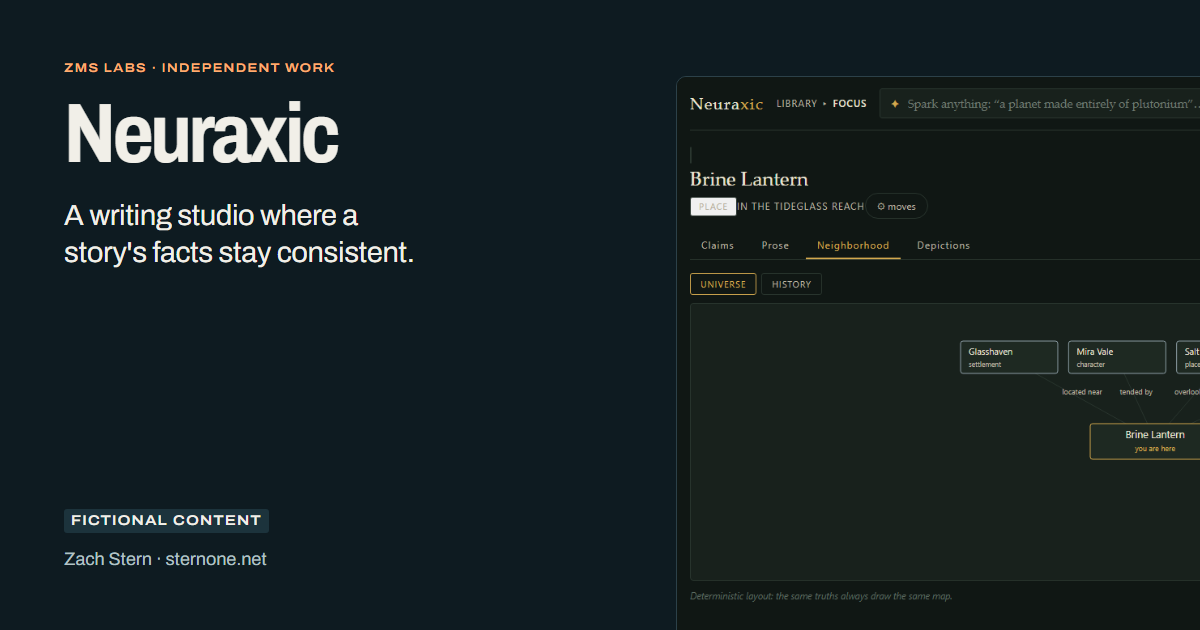
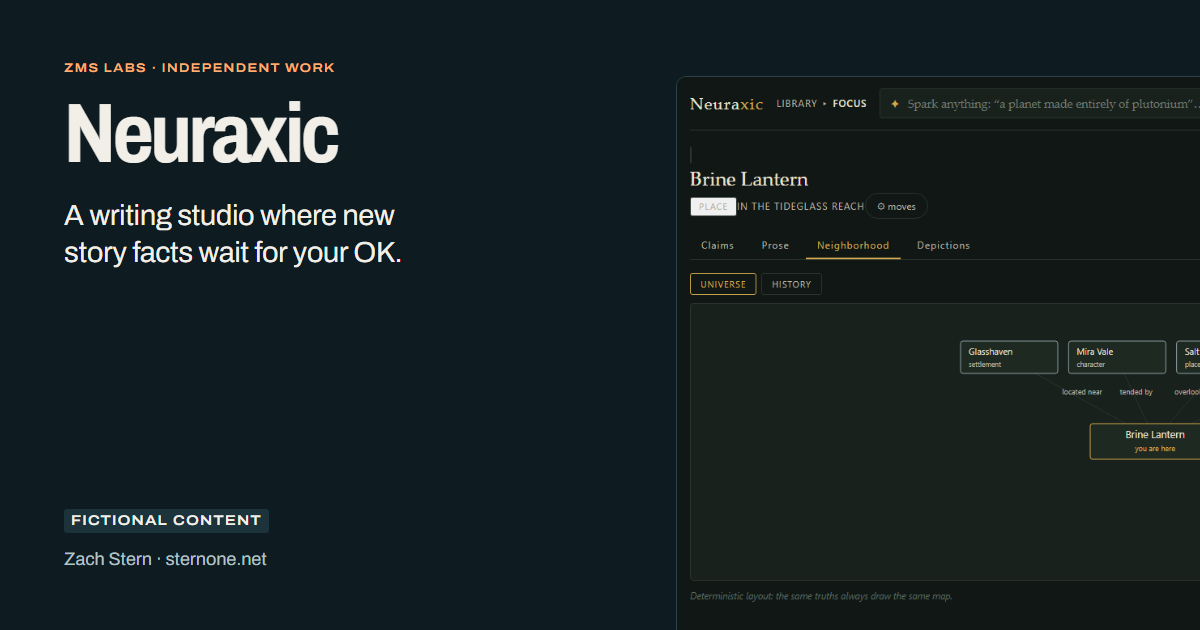
Apply independent copy review: claims, credits and voice
- Tishler & Wald page: retitle so it no longer implies the process ran
  for every creditor; name the $17.49 million claim instead of an
  unsourced "largest"; restore the auctioneer credit and mark the
  overall result as my recollection.
- Commercial agreements: restore that the three-party NDA and side
  letter already existed.
- Plans no longer read as shipped behavior (Steno, Gridiron, Fleet
  Orchestrator, Neuraxic, Epistemic Skills); home page now describes
  the 14-of-28 finding as a list mismatch and counts 13 releases.
- Restore product font credits on Sources and records.
- Replace contrast-formula headings and filler; fix og alt text on
  Enaction and Poiesis; re-render the Neuraxic card.
- DESIGN.md: correct the van der Bles citation (checked on Crossref).
- No-JS story steps no longer reserve scroll height.

Changed region(s): [[0.0925, 0.3317, 0.3392, 0.4222]]

diff --git a/docs/ear.html b/docs/ear.html
@@ -3,14 +3,14 @@
 <head>
 <meta charset="utf-8">
 <meta name="viewport" content="width=device-width,initial-scale=1">
-<title>A claims process for more than 100 creditors · Zach Stern</title>
+<title>One court process for more than 100 competing claims · Zach Stern</title>
 <meta name="description" content="At Tishler &amp; Wald, I co-designed and ran a court claims process for a creditor client after an equipment lessee's bankruptcy, and drafted the central trial-court motion that helped defeat a $17,487,520.30 competing claim. The judgment was affirmed.">
 <link rel="canonical" href="https://sternone.net/ear.html">
 <link rel="icon" href="assets/icons/favicon.svg" type="image/svg+xml">
 <link rel="preload" href="assets/fonts/Archivo-latin.woff" as="font" type="font/woff" crossorigin>
 <meta property="og:type" content="article">
 <meta property="og:site_name" content="Zach Stern">
-<meta property="og:title" content="A claims process for more than 100 creditors · Zach Stern">
+<meta property="og:title" content="One court process for more than 100 competing claims · Zach Stern">
 <meta property="og:description" content="At Tishler &amp; Wald, I co-designed and ran a court claims process for a creditor client after an equipment lessee's bankruptcy, and drafted the central trial-court motion that helped defeat a $17,487,520.30 competing claim. The judgment was affirmed.">
 <meta property="og:url" content="https://sternone.net/ear.html">
 <meta property="og:image" content="https://sternone.net/assets/og/og-default.png">
@@ -39,8 +39,8 @@
   <div>
     <p class="crumb"><a href="index.html#experience">Experience</a> <span aria-hidden="true">/</span> Tishler &amp; Wald</p>
     <span class="kicker">Tishler &amp; Wald · Litigation</span>
-    <h1>A claims process for more than 100 creditors.</h1>
-    <p class="lead">When an equipment lessee went bankrupt, more than 100 lenders and leasing companies claimed what it left behind. For our creditor client, I co-designed and ran a claims process in state court, outside the bankruptcy, and drafted the central trial-court motion against the largest competing claim.</p>
+    <h1>One court process for more than 100 competing claims.</h1>
+    <p class="lead">When an equipment lessee went bankrupt, more than 100 lenders and leasing companies claimed what it left behind. For our creditor client, I co-designed and ran a claims process in state court, outside the bankruptcy, and drafted the central trial-court motion against a $17.49 million competing claim.</p>
   </div>
   <div class="big-number" style="align-self:end">
     <span class="tag">Competing claim defeated</span>
@@ -56,7 +56,7 @@
       <h2 id="problem-title">Many creditors. One pile of equipment.</h2>
     </div>
     <div class="prose">
-      <p>Equipment Acquisition Resources leased equipment from dozens of lenders and leasing companies. In October 2009 it filed for bankruptcy, and in December it abandoned the equipment. That left a large stock of equipment and a long list of parties who each believed some or all of it was theirs.</p>
+      <p>Equipment Acquisition Resources leased equipment from more than 100 lenders and leasing companies. In October 2009 it filed for bankruptcy, and in December it abandoned the equipment. That left a large stock of equipment and a long list of parties who each believed some or all of it was theirs.</p>
       <p>Our client claimed a security interest in all of the company's assets. Other lenders and lessors asserted their own rights to particular equipment. Sorting that out item by item, party by party, was going to take a process of its own.</p>
     </div>
   </div>
@@ -80,7 +80,7 @@
       </ol>
       <div class="prose">
         <p>The chancery case gave the dispute one home. Instead of fighting over each machine in a different forum, the parties' claims moved with the equipment into a single pool of auction money, and the court decided who was entitled to what.</p>
-        <p>Running it meant years of coordination. I helped turn an unusual procedural setting into working records, court filings and a sequence of steps the court and the parties could follow.</p>
+        <p>Running it meant years of coordination. I helped turn an unusual procedural setting into working records, court filings and a sequence of steps the court and the parties could follow. Professional auctioneers handled the physical inventory and the auction, and other staff mapped the equipment.</p>
       </div>
     </div>
   </div>
@@ -97,7 +97,7 @@
       <li class="reveal"><h3>Started it</h3><p>Drafted the complaint that began the chancery case and coordinated service on the parties.</p></li>
       <li class="reveal"><h3>Kept the record straight</h3><p>Built and reconciled the working asset and claim records as they changed, and compared competing claims to the same equipment.</p></li>
       <li class="reveal"><h3>Worked with the other side</h3><p>Served as a contact for claimants' lawyers and worked with the team through individual court-approved settlements.</p></li>
-      <li class="reveal"><h3>Wrote for the court</h3><p>Prepared court reports, hearing materials and substantive trial filings, including the central motion against the largest competing claim.</p></li>
+      <li class="reveal"><h3>Wrote for the court</h3><p>Prepared court reports, hearing materials and substantive trial filings, including the central motion against the $17.49 million competing claim.</p></li>
     </ul>
   </div>
 </section>
@@ -111,7 +111,7 @@
     <div class="prose">
       <p>One competing creditor claimed $17,487,520.30 of the auction proceeds. That creditor held mortgages on real estate securing guaranties of the same lease debt. It foreclosed on the real estate and bought it with a credit bid for the full amount owed.</p>
       <p>I drafted the central motion in the trial court. It argued that the full credit bid satisfied the debt, so nothing was left to claim against the proceeds. The court granted summary judgment for our client in March 2012. Reading the mortgage, guaranty and lease terms under Wyoming law, the Illinois Appellate Court affirmed in September 2013.</p>
-      <p>The figure is the amount of the claim we defeated. Separately, the process as a whole helped turn abandoned equipment into value for our client, when expectations had been low.</p>
+      <p>The figure is the amount of the claim we defeated, not money recovered. Separately, as I remember it, the process turned abandoned equipment into real value for our client at a time when expectations were low.</p>
     </div>
   </div>
 </section>

diff --git a/docs/index.html b/docs/index.html
@@ -4,14 +4,14 @@
 <meta charset="utf-8">
 <meta name="viewport" content="width=device-width,initial-scale=1">
 <title>Zach Stern · Commercial lawyer</title>
-<meta name="description" content="Commercial lawyer. Nearly ten years in-house on commercial and technology agreements, seven years before that in financing and commercial litigation. I also build software with AI tools.">
+<meta name="description" content="Commercial lawyer. Nearly ten years in-house on commercial and technology agreements, seven years before that in financing and commercial litigation. I also direct software projects built with AI tools.">
 <link rel="canonical" href="https://sternone.net/">
 <link rel="icon" href="assets/icons/favicon.svg" type="image/svg+xml">
 <link rel="preload" href="assets/fonts/Archivo-latin.woff" as="font" type="font/woff" crossorigin>
 <meta property="og:type" content="website">
 <meta property="og:site_name" content="Zach Stern">
 <meta property="og:title" content="Zach Stern · Commercial lawyer">
-<meta property="og:description" content="Commercial lawyer. Nearly ten years in-house on commercial and technology agreements, seven years before that in financing and commercial litigation. I also build software with AI tools.">
+<meta property="og:description" content="Commercial lawyer. Nearly ten years in-house on commercial and technology agreements, seven years before that in financing and commercial litigation. I also direct software projects built with AI tools.">
 <meta property="og:url" content="https://sternone.net/">
 <meta property="og:image" content="https://sternone.net/assets/og/og-default.png">
 <meta property="og:image:width" content="1200">
@@ -180,7 +180,7 @@
   <div class="wrap">
     <div class="section-head">
       <span class="kicker">ZMS Labs · Independent work</span>
-      <h2 id="independent-title">I also build software with AI. I test it the way I'd test evidence.</h2>
+      <h2 id="independent-title">I also direct software projects built with AI tools. I test them the way I'd test evidence.</h2>
       <p class="lead">ZMS Labs is the name I use for my own projects. AI tools write the code. I decide what each project is for, direct the work and check what comes back. When a result fails, it stays on the record.</p>
     </div>
 
@@ -216,8 +216,8 @@
       <div class="feature-copy">
         <span class="kicker">Epistemic Skills · AI agents</span>
         <h3>Teaching AI agents not to call it done until it's checked.</h3>
-        <p>Seventeen written methods an AI agent can load to investigate a problem properly and confirm a change actually worked. The source is public. When this site first went live, that habit caught a real problem: 14 of its 28 files weren't the versions that had been checked.</p>
-        <p class="status"><a href="evidence.html#status"><b>Public source</b></a> · eleven releases since July 2026</p>
+        <p>Seventeen written methods an AI agent can load to investigate a problem properly and confirm a change actually worked. The source is public. When this site first went live, that habit caught a real problem: 14 of its 28 files didn't match the fingerprint list made before publishing.</p>
+        <p class="status"><a href="evidence.html#status"><b>Public source</b></a> · thirteen releases since July 2026</p>
         <a class="more" href="case-studies/epistemic-skills/index.html">Explore Epistemic Skills <span class="arrow" aria-hidden="true">&#8594;</span></a>
       </div>
       <div class="graphic-panel reveal" aria-label="28 squares, one per published file. 14 are marked as not matching what was checked.">
@@ -232,11 +232,11 @@
     </div>
     <ul class="index">
       <li class="gallery-card">
-        <a class="row" href="case-studies/fleet-orchestrator/index.html"><span class="name">Fleet Orchestrator</span><span class="what">A control room for a team of AI agents, so their work survives between sessions.</span><span class="go" aria-hidden="true">&#8594;</span></a>
+        <a class="row" href="case-studies/fleet-orchestrator/index.html"><span class="name">Fleet Orchestrator</span><span class="what">A control room for a team of AI agents, built so their work can outlast a session.</span><span class="go" aria-hidden="true">&#8594;</span></a>
         <p class="status"><a href="evidence.html#status"><b>Component study</b></a> · three review-gate tests passed</p>
       </li>
       <li class="gallery-card">
-        <a class="row" href="case-studies/neuraxic/index.html"><span class="name">Neuraxic</span><span class="what">A writing studio where a story's facts stay consistent as the story grows.</span><span class="go" aria-hidden="true">&#8594;</span></a>
+        <a class="row" href="case-studies/neuraxic/index.html"><span class="name">Neuraxic</span><span class="what">A writing studio where a new story fact waits for the author's OK before it becomes settled.</span><span class="go" aria-hidden="true">&#8594;</span></a>
         <p class="status"><a href="evidence.html#status"><b>Interface study</b></a> · five tests passed</p>
       </li>
       <li class="gallery-card">
@@ -268,7 +268,7 @@
     </div>
     <div class="prose">
       <p class="lead" style="max-width:none">AI tools write the code. I decide what each project is for and check what comes back.</p>
-      <p>The habits come from practice. A claim needs support. A failed result stays on the record. The decision stays with the person accountable for it. That's how I'd want AI used on legal work, and it's how I use it on my own.</p>
+      <p>The habits come from practice. A claim needs support. A failed result stays on the record. The decision stays with the person accountable for it.</p>
       <div class="links"><a href="about.html#how-i-work">How I work with AI tools</a><a href="evidence.html">Sources and records</a></div>
     </div>
   </div>

diff --git a/docs/more-work.html b/docs/more-work.html
@@ -4,14 +4,14 @@
 <meta charset="utf-8">
 <meta name="viewport" content="width=device-width,initial-scale=1">
 <title>Work · Zach Stern</title>
-<meta name="description" content="Two professional roles and nine independent projects: commercial agreements, a court claims process, and software I built with AI tools, each with its records.">
+<meta name="description" content="Two professional roles and nine independent projects: commercial agreements, a court claims process, and software projects I direct, built with AI tools, each with its records.">
 <link rel="canonical" href="https://sternone.net/more-work.html">
 <link rel="icon" href="assets/icons/favicon.svg" type="image/svg+xml">
 <link rel="preload" href="assets/fonts/Archivo-latin.woff" as="font" type="font/woff" crossorigin>
 <meta property="og:type" content="website">
 <meta property="og:site_name" content="Zach Stern">
 <meta property="og:title" content="Work · Zach Stern">
-<meta property="og:description" content="Two professional roles and nine independent projects: commercial agreements, a court claims process, and software I built with AI tools, each with its records.">
+<meta property="og:description" content="Two professional roles and nine independent projects: commercial agreements, a court claims process, and software projects I direct, built with AI tools, each with its records.">
 <meta property="og:url" content="https://sternone.net/more-work.html">
 <meta property="og:image" content="https://sternone.net/assets/og/og-default.png">
 <meta property="og:image:width" content="1200">
@@ -52,7 +52,7 @@
       </li>
       <li>
         <span class="when">2010 to 2014</span>
-        <div><h3><a href="ear.html">A claims process for more than 100 creditors</a></h3><p>At Tishler &amp; Wald: a court claims process after an equipment lessee's bankruptcy, and a $17,487,520.30 competing claim defeated and affirmed on appeal.</p></div>
+        <div><h3><a href="ear.html">One court process for more than 100 competing claims</a></h3><p>At Tishler &amp; Wald: a court claims process after an equipment lessee's bankruptcy, and a $17,487,520.30 competing claim defeated and affirmed on appeal.</p></div>
         <div></div>
       </li>
     </ul>
@@ -78,11 +78,11 @@
         <p class="status"><a href="evidence.html#status"><b>Public source</b></a> · thirteen releases since July 2026</p>
       </li>
       <li>
-        <a class="row" href="case-studies/fleet-orchestrator/index.html"><span class="name">Fleet Orchestrator</span><span class="what">A control room for a team of AI agents, so their work survives between sessions.</span><span class="go" aria-hidden="true">&#8594;</span></a>
+        <a class="row" href="case-studies/fleet-orchestrator/index.html"><span class="name">Fleet Orchestrator</span><span class="what">A control room for a team of AI agents, built so their work can outlast a session.</span><span class="go" aria-hidden="true">&#8594;</span></a>
         <p class="status"><a href="evidence.html#status"><b>Component study</b></a> · three review-gate tests passed</p>
       </li>
       <li>
-        <a class="row" href="case-studies/neuraxic/index.html"><span class="name">Neuraxic</span><span class="what">A writing studio where a story's facts stay consistent as the story grows.</span><span class="go" aria-hidden="true">&#8594;</span></a>
+        <a class="row" href="case-studies/neuraxic/index.html"><span class="name">Neuraxic</span><span class="what">A writing studio where a new story fact waits for the author's OK before it becomes settled.</span><span class="go" aria-hidden="true">&#8594;</span></a>
         <p class="status"><a href="evidence.html#status"><b>Interface study</b></a> · five tests passed</p>
       </li>
       <li>

diff --git a/docs/case-studies/epistemic-skills/index.html b/docs/case-studies/epistemic-skills/index.html
@@ -56,7 +56,7 @@
     <div class="wrap">
       <div class="section-head">
         <span class="kicker">One real catch</span>
-        <h2 id="catch-title">The day this site went live, the method caught a problem nobody could see.</h2>
+        <h2 id="catch-title">The day this site went live, the method caught a mismatch the screen didn't show.</h2>
       </div>
       <div class="story" data-story>
         <div class="story-graphic">
@@ -78,7 +78,7 @@
           <li class="story-step" data-state="miss">
             <span class="kicker">The check</span>
             <h3>Half of them weren't.</h3>
-            <p>The site kept a list of its files with a fingerprint for each one. Compared against the copies actually saved for publication, 14 of the 28 files didn't match. Nothing looked different on screen, which is exactly why it needed checking.</p>
+            <p>The site kept a list of its files with a fingerprint for each one. Compared against the copies actually saved for publication, 14 of the 28 files didn't match. Nothing looked different on screen.</p>
           </li>
           <li class="story-step" data-state="cause">
             <span class="kicker">The cause</span>
@@ -87,7 +87,7 @@
           </li>
           <li class="story-step" data-state="fixed">
             <span class="kicker">The fix</span>
-            <h3>Fix the list, not the symptom.</h3>
+            <h3>Rebuild the list from what Git stores.</h3>
             <p>The corrected list was built from the files the repository actually stored. Differences went from 14 to zero.</p>
           </li>
           <li class="story-step" data-state="live">
@@ -113,7 +113,7 @@
     </div>
     <div class="tools">
       <div class="reveal"><h3>Find the real cause</h3><p>Compare the competing explanations and run the test that tells them apart before fixing anything.</p></div>
-      <div class="reveal"><h3>Check where it runs</h3><p>A passing check on the source isn't the same as seeing the change work. The methods don't let one stand in for the other.</p></div>
+      <div class="reveal"><h3>Check where it runs</h3><p>Follow a change to where it actually runs and look at the result there. A green test on the source doesn't settle it.</p></div>
       <div class="reveal"><h3>Keep it in proportion</h3><p>Fixing a typo doesn't need a review panel. The heavier methods are for questions where a wrong answer costs something.</p></div>
       <div class="reveal"><h3>Leave a record</h3><p>Big decisions and long tasks get written records that outlast the chat, so the next session can pick them up and check them.</p></div>
     </div>
@@ -128,7 +128,7 @@
     <div>
       <span class="kicker">The methods</span>
       <h2 id="methods-title">Pick the method the question needs.</h2>
-      <p style="margin-top:24px">Each method says when to use it, what it should hand back and when to stop. An agent that uses one says so, in a line, so its work never runs invisibly in the background.</p>
+      <p style="margin-top:24px">Each method says when to use it, what it should hand back and when to stop. Each method tells an agent that uses it to say so, in a line.</p>
       <div class="switch" style="margin-top:32px" aria-label="Choose a kind of question">
         <button type="button" aria-pressed="true" data-method="investigate">Investigate a failure</button>
         <button type="button" aria-pressed="false" data-method="verify">Verify a change</button>

diff --git a/docs/case-studies/gridiron/index.html b/docs/case-studies/gridiron/index.html
@@ -4,14 +4,14 @@
 <meta charset="utf-8">
 <meta name="viewport" content="width=device-width,initial-scale=1">
 <title>Gridiron · Zach Stern</title>
-<meta name="description" content="Commentary for a football video game that waits for the facts. Gridiron writes each play into a record first, and the commentary works only from that record.">
+<meta name="description" content="Commentary for a football video game that waits for the facts. Gridiron writes each play into a record first, and the commentary is meant to work only from that record.">
 <link rel="canonical" href="https://sternone.net/case-studies/gridiron/">
 <link rel="icon" href="../../assets/icons/favicon.svg" type="image/svg+xml">
 <link rel="preload" href="../../assets/fonts/Archivo-latin.woff" as="font" type="font/woff" crossorigin>
 <meta property="og:type" content="article">
 <meta property="og:site_name" content="Zach Stern">
 <meta property="og:title" content="Gridiron · Zach Stern">
-<meta property="og:description" content="Commentary for a football video game that waits for the facts. Gridiron writes each play into a record first, and the commentary works only from that record.">
+<meta property="og:description" content="Commentary for a football video game that waits for the facts. Gridiron writes each play into a record first, and the commentary is meant to work only from that record.">
 <meta property="og:url" content="https://sternone.net/case-studies/gridiron/">
 <meta property="og:image" content="https://sternone.net/assets/og/og-gridiron.png">
 <meta property="og:image:width" content="1200">
@@ -43,7 +43,7 @@
       <p class="crumb"><a href="../../more-work.html">Work</a> <span aria-hidden="true">/</span> Gridiron</p>
       <span class="kicker">Gridiron · Game commentary</span>
       <h1>Football commentary that waits for the facts.</h1>
-      <p class="lead">Commentary for a football video game can run ahead of the facts and celebrate a play a flag has already wiped out. Gridiron writes each play into a record first, and the commentary works only from that record.</p>
+      <p class="lead">Commentary for a football video game can run ahead of the facts and celebrate a play a flag has already wiped out. Gridiron writes each play into a record first, and the commentary is meant to work only from that record.</p>
       <p class="status"><a href="../../evidence.html#status"><b>Public source</b></a> · research snapshot frozen September 19, 2026, free to download</p>
       <div class="actions"><a class="action" href="../../downloads/gridiron-research-source.zip" download>Download the source (ZIP)</a></div>
     </div>

diff --git a/docs/case-studies/fleet-orchestrator/index.html b/docs/case-studies/fleet-orchestrator/index.html
@@ -126,7 +126,7 @@
     <section class="walkthrough" data-walkthrough id="walkthrough" aria-labelledby="walkthrough-title">
       <div class="section-head">
         <span class="kicker">The review gate</span>
-        <h2 id="walkthrough-title">Handing work back isn't the same as finishing it.</h2>
+        <h2 id="walkthrough-title">When work comes back, the gate decides whether it can move on.</h2>
       </div>
       <p class="walk-intro">When an agent hands work back, I want to know what it actually finished. In Fleet Orchestrator a reviewer can record a finding: a problem serious enough that the work shouldn't move on. The review gate answers one question, whether this work may proceed, and it refuses an approval that comes with no reason, reference or finding attached. These five steps retrace what the project's own tests check, starting from a sample finding that says a required input check is missing.</p>
       <div class="walk-controls" data-walk-controls hidden style="margin-bottom:40px">
@@ -186,7 +186,6 @@
           <p class="fine">&#8595; The changed record is checked</p>
           <p><span class="chip alert">Blocked again</span></p>
           <dl class="kv" style="margin-top:14px"><dt>Blocked</dt><dd><code>true</code></dd><dt>Verification</dt><dd><code>failed</code></dd></dl>
-          <p class="fine">The answer follows the latest record.</p>
         </figure>
       </article>
       <div class="walk-links"><a href="#evidence">What these tests show and leave open</a></div>
@@ -233,7 +232,7 @@
         <h2 id="record-title" style="font-size:clamp(30px,3vw,44px)">What ran, and what's still open.</h2>
       </div>
       <dl>
-        <dt>Recorded</dt><dd>Three of the project's own tests passed on September 19, 2026, with no failures or skips. They drove the real request handlers with sample records held in memory.</dd>
+        <dt>Recorded</dt><dd>Three of the project's own tests passed on September 19, 2026, with no failures or skips. They ran the project's real code against sample data.</dd>
         <dt>Source</dt><dd>Private. The icons and home screen come from the project's own components with made-up agents. A summary of the tests is public as JSON.</dd>
         <dt>Not shown yet</dt><dd>The product in use. Nothing here shows a real agent at work, a real database, data surviving a restart, a deployment, or how easily the state rings read at small sizes.</dd>
       </dl>

diff --git a/docs/evidence.html b/docs/evidence.html
@@ -91,7 +91,7 @@
   <div class="wrap split">
     <div><span class="kicker">Credits and licenses</span><h2 id="credits-title">Who made what.</h2></div>
     <div class="prose">
-      <p>I directed the page layouts and typography, with AI tools carrying out the design and build. The site's typeface is Archivo, bundled unmodified under the <a href="assets/fonts/OFL.txt">SIL Open Font License</a>, from <a class="ext" href="https://github.com/google/fonts/tree/main/ofl/archivo">Google Fonts</a>. Product screenshots keep each product's own look and fonts, which appear here only as pixels.</p>
+      <p>I directed the page layouts and typography, with AI tools carrying out the design and build. The site's typeface is Archivo, bundled unmodified under the <a href="assets/fonts/OFL.txt">SIL Open Font License</a>, from <a class="ext" href="https://github.com/google/fonts/tree/main/ofl/archivo">Google Fonts</a>. Product screenshots keep each product's own look and fonts, which appear here only as pixels: Source Serif 4, Inter and IBM Plex Mono in Steno's prototype images, and Instrument Serif, Space Grotesk and JetBrains Mono in Krewcible's study. Fleet Orchestrator's and Neuraxic's images use the fallback fonts their own code specifies. Where each font came from, and its original notice, are kept with the private preparation records.</p>
       <p>The Gridiron and Epistemic Skills illustrations were made with OpenAI image generation and are labeled as AI-generated artwork wherever they appear. They contain no screenshots or measured results.</p>
       <p>All four recordings are silent captures of the real interfaces with made-up content, with captions and selectable transcripts.</p>
       <p>This site's source is licensed under the GNU GPL, version 3 or later. <a class="ext" href="https://github.com/ZMS-Labs/showcase/blob/main/LICENSE">Read the license on GitHub</a> or <a href="LICENSE">download the license file</a>. The Gridiron download keeps its own declarations and notices, and third-party components keep their own terms. Other application sources are private; their pages show selected screens, recordings and test results instead.</p>

diff --git a/docs/case-studies/steno/index.html b/docs/case-studies/steno/index.html
@@ -181,7 +181,7 @@
       <h2 id="research-title">Fixed rules at the center. Language models only at the edges.</h2>
     </div>
     <div class="prose">
-      <p>At its core, Steno checks an agreement's structured parts against a library of positions, using rules that give the same result every time. Language models help at the edges, such as sorting documents or putting findings into plain English. A model never decides what changes in a document, which redline to use, or whether a result goes out.</p>
+      <p>At its core, Steno is designed to check an agreement's structured parts against a library of positions, using rules that give the same result every time. Language models help at the edges, such as sorting documents or putting findings into plain English. A model never decides what changes in a document, which redline to use, or whether a result goes out.</p>
       <p>For some hand-picked clauses, the design adds three existing tools built by others, each for one narrow question: what duties a clause creates and whether one is breached (eFLINT), whether a hand-built model of a clause is sound (Catala), and whether an exception overrides an obligation (clingo). Recorded runs from May 2026 used each one in the private build on one clause family, limitation of liability.</p>
       <p>The design started from research. AI agents worked through papers collected in a reference manager; one recorded sweep ran 46 searches and had to look for evidence against the idea as well as for it. The agents then checked how later papers received each source. When the citation service's quota ran out partway through, the papers it hadn't reached were marked unverified rather than assumed.</p>
       <p>The build used <a href="../epistemic-skills/index.html">Epistemic Skills</a>. In one review, AI reviewers tried to break a claim and caught an earlier write-up overstating what Catala verifies. The correction is kept in the record.</p>

diff --git a/docs/case-studies/neuraxic/index.html b/docs/case-studies/neuraxic/index.html
@@ -147,7 +147,7 @@
         <button data-walk-next type="button">Next step</button>
       </div>
       <article class="walk-step" data-walk-step>
-        <div><h3 tabindex="-1">Seeing a detail isn't the same as accepting it.</h3><p>The main story holds one claim: the beacon is lit. Ask what this version knows and that claim comes back, even though it is still a proposal.</p><p>Coming back in the answer is what "visible" means. Visible and canon are separate questions.</p></div>
+        <div><h3 tabindex="-1">A proposed detail shows up before anyone accepts it.</h3><p>The main story holds one claim: the beacon is lit. Ask what this version knows and that claim comes back, even though it is still a proposal.</p><p>Coming back in the answer is what "visible" means. Visible and canon are separate questions.</p></div>
         <figure class="walk-observation" aria-label="The main story holds one visible claim that is still a proposal">
           <h4>Main story</h4>
           <p>The beacon is lit.</p>
@@ -220,7 +220,7 @@
     <div class="contribution">
       <div>
         <h3>What I did</h3>
-        <p>I decide what each project is for and check what comes back. Here, I wanted a story's prose, people, places and rules to develop together without losing track of what I'd already decided. After the first prototype, I asked for the story to be shown as a map of connected parts while the app stays a first-rate place to write.</p>
+        <p>I decide what each project is for and check what comes back. Here, I wanted a story's prose, people, places and rules to develop together without losing track of what I'd already decided. After the first prototype, I asked for the story to be shown as a map of connected parts while the app stays a good place to write.</p>
       </div>
       <div>
         <h3>What the AI did</h3>

diff --git a/docs/about.html b/docs/about.html
@@ -85,7 +85,7 @@
     <div class="prose">
       <p class="lead" style="max-width:none">AI tools write the code. I decide what each project is for and check what comes back.</p>
       <p>ZMS Labs is the name I use for my independent projects, separate from my legal work. I use AI tools for research, design, testing and writing too, including first drafts of these pages. I direct the work and review it with a critical eye.</p>
-      <p>Here's what that looks like in practice. In SaveBench, an AI model earned the game's milestones by feeding machines by hand and never built a conveyor belt, even after hand transfers started costing game time. At first I called that a flaw in the model. Then I decided the problem was the test: SaveBench measures factory design, not whether an AI chooses to automate. So the test became a production quota the factory has to keep meeting while nobody touches it.</p>
+      <p>In SaveBench, an AI model earned the game's milestones by feeding machines by hand and never built a conveyor belt, even after hand transfers started costing game time. At first I called that a flaw in the model. Then I decided the problem was the test: SaveBench measures factory design, not whether an AI chooses to automate. So the test became a production quota the factory has to keep meeting while nobody touches it.</p>
       <p>Other people's libraries, tools and research are part of the work too, and each case study credits them. Every project page says what's real, what's sample content and what hasn't been tested yet.</p>
       <div class="links"><a href="more-work.html">All work</a><a href="evidence.html">Sources and records</a></div>
     </div>

diff --git a/docs/commercial-agreements.html b/docs/commercial-agreements.html
@@ -121,7 +121,7 @@
       </div>
       <div class="reveal">
         <h3>Access to vendors' assurance reports</h3>
-        <p style="margin-top:12px">Assurance reports are the independent audits vendors share about their controls. I made getting access to them a repeatable process by lining up the participants, the required documents and the routing.</p>
+        <p style="margin-top:12px">Assurance reports are the independent audits vendors share about their controls. I made getting access to them a repeatable process by lining up the participants, the required documents and the routing. The three-party NDA and indemnity side letter it uses already existed; my part was making the process repeatable.</p>
       </div>
     </div>
     <ol class="flow" style="margin-top:48px" aria-label="How a report request moves">
@@ -134,7 +134,7 @@
 
 <section class="section" aria-labelledby="next-title">
   <div class="wrap next-case">
-    <div><span class="kicker">Earlier experience</span><a class="big" id="next-title" href="ear.html">Tishler &amp; Wald: a claims process for more than 100 creditors <span aria-hidden="true">&#8594;</span></a></div>
+    <div><span class="kicker">Earlier experience</span><a class="big" id="next-title" href="ear.html">Tishler &amp; Wald: one court process for more than 100 competing claims <span aria-hidden="true">&#8594;</span></a></div>
     <a class="more" href="about.html">About me</a>
   </div>
 </section>

diff --git a/docs/case-studies/enaction/index.html b/docs/case-studies/enaction/index.html
@@ -16,7 +16,7 @@
 <meta property="og:image" content="https://sternone.net/assets/og/og-enaction.png">
 <meta property="og:image:width" content="1200">
 <meta property="og:image:height" content="630">
-<meta property="og:image:alt" content="Zach Stern, commercial lawyer.">
+<meta property="og:image:alt" content="Enaction: one accepted turn, where only the chosen speaker, Guide, gets the new memories.">
 <meta name="twitter:card" content="summary_large_image">
 <meta name="theme-color" content="#0e1b21">
 <link rel="stylesheet" href="../../site.css">
@@ -90,7 +90,7 @@
       <article class="walk-step" data-walk-step>
         <div><h3 tabindex="-1">Choose who is speaking.</h3><p>You pick Guide and type "I will bring the blue folder." That choice says who is talking in this scene. Your own profile stays as it was.</p><p>Enaction checks the pick before using it. It refuses your own identity as a character, and it refuses a character who isn't in the scene.</p></div>
         <aside class="walk-observation">
-          <h4>A pick, not a transfer</h4>
+          <h4>Choosing a speaker</h4>
           <dl class="kv"><dt>Speaking</dt><dd>Guide</dd><dt>Also in the scene</dt><dd>Archivist</dd><dt>You</dt><dd>Your own profile</dd></dl>
           <p class="fine">The pick selects a speaker. No identity or memory moves with it.</p>
         </aside>
